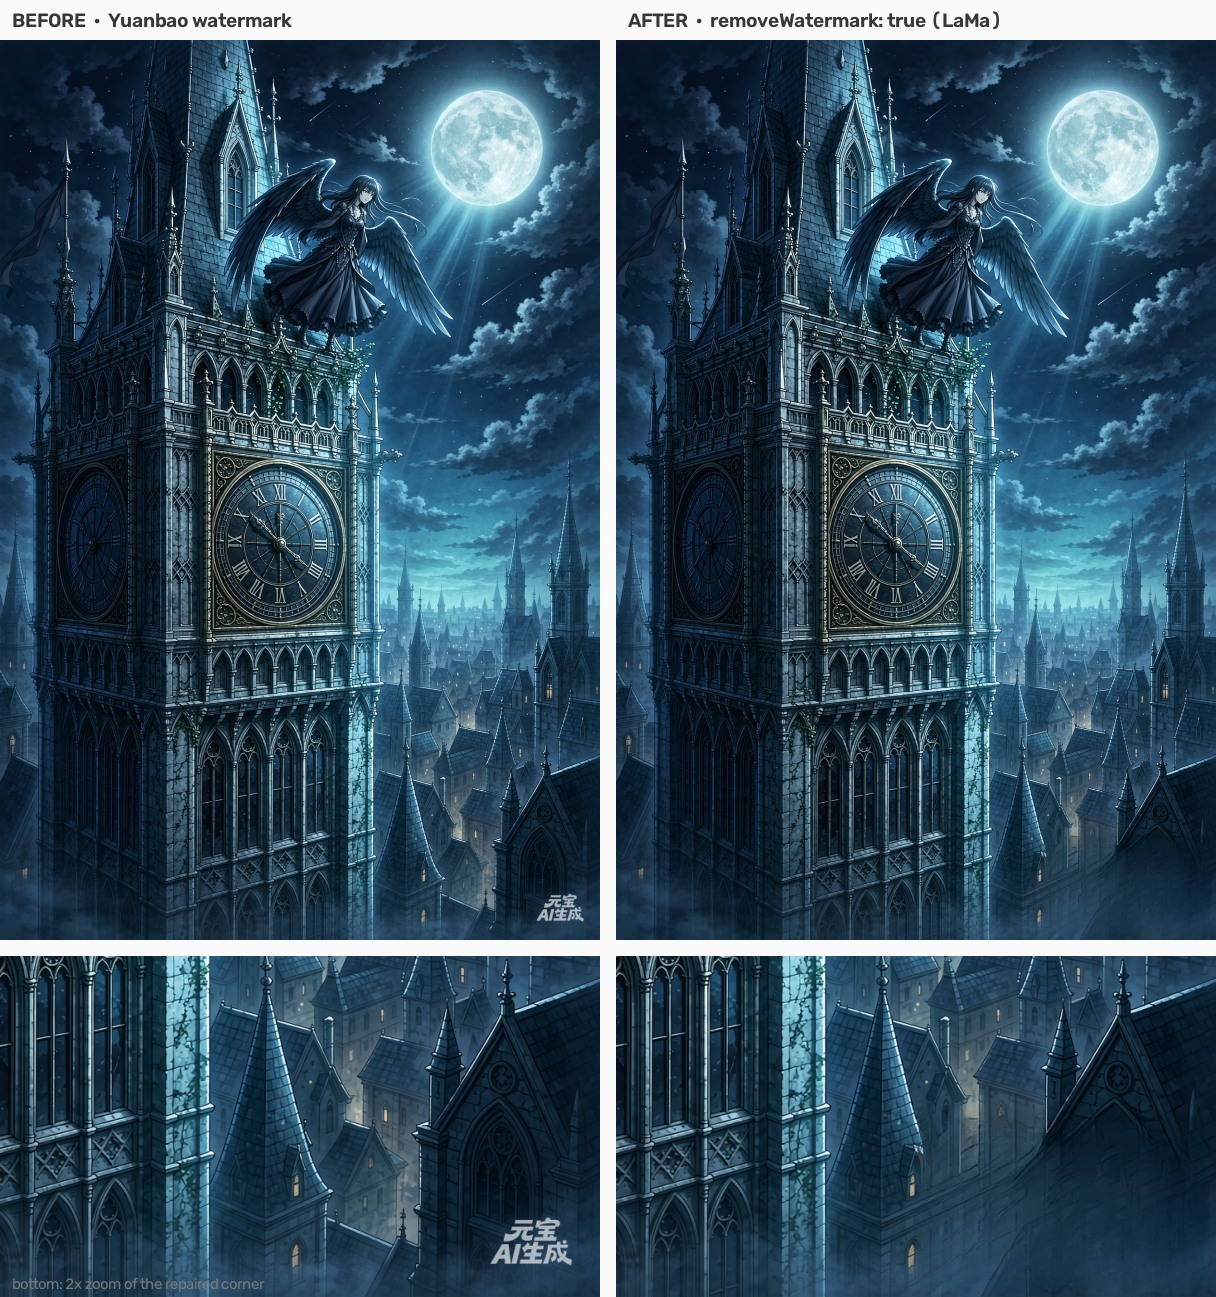
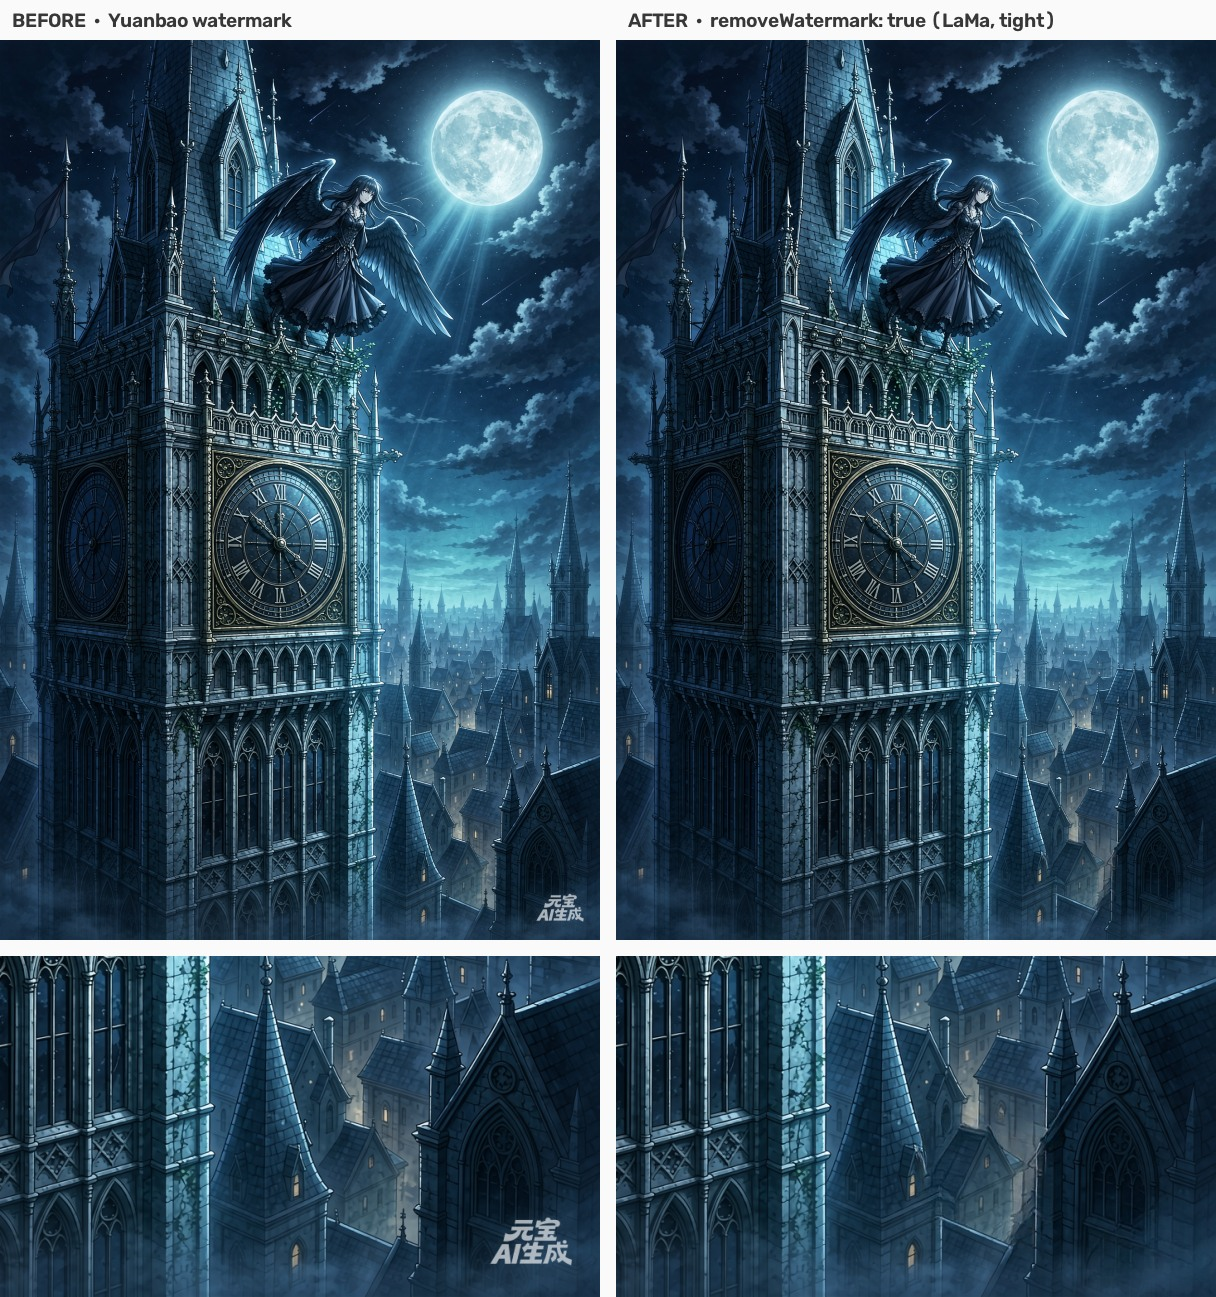
feat(wm): tight 掩膜模式（默认）+ wmMask 参数与设置卡选项
- lib/wm_lama.py: 新增 --mask tight|rect。tight 在 ROI 内按「近白 + 低饱和」
  检出字形，膨胀成紧贴字形的掩膜后只送「掩膜+上下文」进 LaMa，回填时按羽化
  掩膜混合；检出为空自动回退 rect。
- lib/plugin.js / lib/settings.js: 新增 wmMask（tight/rect），走同一套
  「界面设置＝默认值，单次调用可覆盖」链路；新增 DSH_WM_MASK 环境变量。
- client.js: 设置卡新增「修复范围」下拉（仅 lama 引擎可选）。
- docs/watermark-before-after.jpg: 用插件真实代码路径重新生成（tight 模式）。
- docs/wm-mask-tight-vs-rect.jpg + README: tight vs rect 对比。
  实测（哥特城 1872×1248）：tight 改 0.63% 像素、保住窗框砖缝；
  rect 改 1.85%（约 3 倍）、塔身右侧糊成一片。

diff --git a/client.js b/client.js
@@ -24,7 +24,10 @@ window.__ModuleLoader__.load({
         engine: "去水印引擎",
         lama: "Big-LaMa 深度模型（默认，质量好，慢）",
         telea: "OpenCV 修复（快，痕迹明显）",
-        note: "此设置为默认值；单次调用仍可用参数 outDir / removeWatermark / wmEngine 临时覆盖。",
+        mask: "修复范围",
+        maskTight: "只修字形（默认，痕轻）",
+        maskRect: "整块矩形（稳，但会糊一片）",
+        note: "此设置为默认值；单次调用仍可用参数 outDir / removeWatermark / wmEngine / wmMask 临时覆盖。",
         save: "保存",
         saving: "保存中…",
         saved: "已保存",
@@ -45,7 +48,10 @@ window.__ModuleLoader__.load({
         engine: "Watermark engine",
         lama: "Big-LaMa depth model (default, best quality, slower)",
         telea: "OpenCV inpaint (fast, visible traces)",
-        note: "These are defaults; a single call can still override them with outDir / removeWatermark / wmEngine.",
+        mask: "Repair area",
+        maskTight: "Glyph-only (default, lighter traces)",
+        maskRect: "Whole rectangle (safe, but smears)",
+        note: "These are defaults; a single call can still override them with outDir / removeWatermark / wmEngine / wmMask.",
         save: "Save",
         saving: "saving…",
         saved: "saved",
@@ -105,8 +111,8 @@ window.__ModuleLoader__.load({
           return t.summary;
         }
         var loadedState = react.useState(false);
-        var settingsState = react.useState({ removeWatermark: false, wmEngine: "lama", outDir: "" });
-        var draftState = react.useState({ removeWatermark: false, wmEngine: "lama", outDir: "" });
+        var settingsState = react.useState({ removeWatermark: false, wmEngine: "lama", wmMask: "tight", outDir: "" });
+        var draftState = react.useState({ removeWatermark: false, wmEngine: "lama", wmMask: "tight", outDir: "" });
         var noteState = react.useState("");
         var busyState = react.useState(false);
         var loaded = loadedState[0];
@@ -126,6 +132,7 @@ window.__ModuleLoader__.load({
               var next = {
                 removeWatermark: res.body.removeWatermark === true,
                 wmEngine: res.body.wmEngine === "telea" ? "telea" : "lama",
+                wmMask: res.body.wmMask === "rect" ? "rect" : "tight",
                 outDir: typeof res.body.outDir === "string" ? res.body.outDir : "",
               };
               settingsState[1](next);
@@ -145,6 +152,7 @@ window.__ModuleLoader__.load({
           loaded &&
           draft.removeWatermark === settings.removeWatermark &&
           draft.wmEngine === settings.wmEngine &&
+          draft.wmMask === settings.wmMask &&
           draft.outDir === settings.outDir;
 
         function save() {
@@ -161,6 +169,7 @@ window.__ModuleLoader__.load({
               var next = {
                 removeWatermark: res.body.removeWatermark === true,
                 wmEngine: res.body.wmEngine === "telea" ? "telea" : "lama",
+                wmMask: res.body.wmMask === "rect" ? "rect" : "tight",
                 outDir: typeof res.body.outDir === "string" ? res.body.outDir : "",
               };
               settingsState[1](next);
@@ -245,6 +254,34 @@ window.__ModuleLoader__.load({
               },
               h("option", { value: "lama" }, t.lama),
               h("option", { value: "telea" }, t.telea),
+            ),
+          ),
+          h(
+            "label",
+            { style: { display: "flex", flexDirection: "column", gap: 6 } },
+            h("span", { style: { fontSize: 13 } }, t.mask),
+            h(
+              "select",
+              {
+                value: draft.wmMask,
+                disabled: !loaded || busy || !draft.removeWatermark || draft.wmEngine !== "lama",
+                onChange: (e) => {
+                  var wmMask = e.target.value === "rect" ? "rect" : "tight";
+                  draftState[1](Object.assign({}, draft, { wmMask: wmMask }));
+                },
+                style: {
+                  font: "inherit",
+                  fontSize: 13,
+                  padding: "6px 8px",
+                  borderRadius: 8,
+                  border: "1px solid var(--dsw-alias-border-l2, rgba(127,127,127,0.28))",
+                  background: "var(--dsw-alias-bg-l2, rgba(127,127,127,0.08))",
+                  color: "var(--dsw-alias-label-primary, inherit)",
+                  maxWidth: 420,
+                },
+              },
+              h("option", { value: "tight" }, t.maskTight),
+              h("option", { value: "rect" }, t.maskRect),
             ),
           ),
           h("div", { style: theme.hint }, t.note),

diff --git a/lib/plugin.js b/lib/plugin.js
@@ -51,6 +51,8 @@ const WM_SCRIPT_DEFAULT = process.env.DSH_WM_SCRIPT || findSkillScript(HOME);
 // 早期把 ROI 放到 0.68,0.86,1.0,1.0（探针外扩余量），LaMa 要重修 4.5% 面积、smooth 痕明显；
 // 收紧到只包住文字本体后重修面积降到约 2.5%，实测 6 张样本无残留、修痕变轻。可用 wmRoi 参数覆盖。
 const WM_ROI_DEFAULT = process.env.DSH_WM_ROI || "0.71,0.878,0.992,0.996";
+// 掩膜模式：tight=ROI 内检出字形后只修字形（实测痕轻很多）；rect=整块矩形重绘（稳但糊）
+const WM_MASK_DEFAULT = process.env.DSH_WM_MASK || "tight";
 // 引擎注册表：telea=OpenCV TELEA（快、痕明显）；lama=Big-LaMa 深度模型（慢、质量好，GPU 优先）
 const LAMA_PY_DEFAULT = firstExisting(
   pythonCandidates("DSH_LAMA_PYTHON", "default"),
@@ -72,7 +74,7 @@ async function runPython(exe, args, timeoutMs = 180000) {
 
 // 对本次生成的文件做去水印：拷进独立临时目录 → clean_watermark.py 处理 → 返回清理后文件列表
 // 输出持久落在 <outDir>/clean/（stem 含时间戳，跨次不冲突）
-async function cleanWatermark(files, { outDir, wmPython, wmScript, wmRoi, wmMode, quality, maxedge, wmEngine, lamaPython, lamaDevice, log }) {
+async function cleanWatermark(files, { outDir, wmPython, wmScript, wmRoi, wmMask, wmMode, quality, maxedge, wmEngine, lamaPython, lamaDevice, log }) {
   const runDir = await mkdtemp(join(tmpdir(), "yuanbao-wm-"));
   const dst = join(outDir, "clean");
   try {
@@ -80,7 +82,7 @@ async function cleanWatermark(files, { outDir, wmPython, wmScript, wmRoi, wmMode
     let cmd, args;
     if (wmEngine === "lama") {
       cmd = lamaPython;
-      args = [WM_LAMA_SCRIPT, "--src", runDir, "--dst", dst, "--roi", wmRoi];
+      args = [WM_LAMA_SCRIPT, "--src", runDir, "--dst", dst, "--roi", wmRoi, "--mask", wmMask || WM_MASK_DEFAULT];
       if (lamaDevice) args.push("--device", lamaDevice);
       log(`去水印引擎：lama（Big-LaMa）`);
     } else {
@@ -138,6 +140,7 @@ export function apply(ctx, config = {}) {
     wmPython: config.wmPython || process.env.DSH_WM_PYTHON || WM_PYTHON_DEFAULT,
     wmScript: config.wmScript || process.env.DSH_WM_SCRIPT || WM_SCRIPT_DEFAULT,
     wmRoi: config.wmRoi || WM_ROI_DEFAULT,
+    wmMask: config.wmMask || WM_MASK_DEFAULT,
     wmMode: config.wmMode || "auto",
     wmEngine: config.wmEngine || "lama",
     lamaPython: config.lamaPython || process.env.DSH_LAMA_PYTHON || LAMA_PY_DEFAULT,
@@ -172,6 +175,7 @@ export function apply(ctx, config = {}) {
         outDir: { type: "string", description: `保存目录（绝对路径，可选；不传＝用插件界面设置，界面留空则用默认 ${defaultOutDir}）` },
         removeWatermark: { type: "boolean", description: "是否去除右下角水印。⛔ 不传＝用插件界面（设置 → 插件 → dsh-yuanbao-t2i）里的开关；传 true/false 可临时覆盖。开启时产物写 outDir/clean/，原图保留" },
         wmEngine: { type: "string", enum: ["lama", "telea"], description: "去水印引擎（仅开启去水印时生效）。不传＝用插件界面设置（默认 lama）。lama=Big-LaMa 深度模型（GPU 约 3–8 秒/张，质量好）；telea=OpenCV 修复（快，痕迹明显）" },
+        wmMask: { type: "string", enum: ["tight", "rect"], description: "修复范围（仅 lama 引擎）。不传＝用插件界面设置（默认 tight）。tight=只修字形（痕轻、保结构）；rect=整块矩形重绘（稳，但插画类会糊一片）" },
       },
       required: ["prompt"],
     },
@@ -200,13 +204,14 @@ export function apply(ctx, config = {}) {
       const removeWatermark =
         args.removeWatermark === undefined ? stored.removeWatermark === true : args.removeWatermark === true;
       const wmEngine = args.wmEngine || stored.wmEngine;
+      const wmMask = args.wmMask || stored.wmMask;
       return serialize(async () => {
         try {
           const r = await generate({ prompt, profileDir, outDir, headless: false, timeoutMs: 240000, log });
           let cleaned = null;
           if (removeWatermark) {
             try {
-              cleaned = await cleanWatermark(r.files, { outDir, ...wmCfg, wmEngine });
+              cleaned = await cleanWatermark(r.files, { outDir, ...wmCfg, wmEngine, wmMask });
             } catch (e) {
               log(`去水印失败（保留原图继续）：${e.message}`);
             }

diff --git a/lib/settings.js b/lib/settings.js
@@ -13,11 +13,14 @@ export const DEFAULTS = {
   removeWatermark: false,
   // 去水印引擎：lama=Big-LaMa（默认，质量好）；telea=OpenCV（快）
   wmEngine: "lama",
+  // 掩膜：tight=只修字形（默认，痕轻）；rect=整块矩形（稳，但糊一片）
+  wmMask: "tight",
   // 输出目录：空字符串＝用插件默认（~/.dsh/yuanbao-t2i-out）
   outDir: "",
 };
 
 const ENGINES = new Set(["lama", "telea"]);
+const MASKS = new Set(["tight", "rect"]);
 const MAX_OUTDIR = 240;
 
 function cleanDir(value) {
@@ -34,6 +37,7 @@ function sanitize(raw) {
   if (!raw || typeof raw !== "object") return out;
   if (typeof raw.removeWatermark === "boolean") out.removeWatermark = raw.removeWatermark;
   if (typeof raw.wmEngine === "string" && ENGINES.has(raw.wmEngine)) out.wmEngine = raw.wmEngine;
+  if (typeof raw.wmMask === "string" && MASKS.has(raw.wmMask)) out.wmMask = raw.wmMask;
   out.outDir = cleanDir(raw.outDir);
   return out;
 }

diff --git a/lib/wm_lama.py b/lib/wm_lama.py
@@ -1,27 +1,87 @@
 # -*- coding: utf-8 -*-
 """wm_lama.py — LaMa 引擎去水印（simple-lama-inpainting，GPU/CPU 自适应）。
-用法：python wm_lama.py --src <目录> --dst <目录> --roi x0,y0,x1,y1 [--device cuda]
-掩膜 = ROI 白色矩形（整块区域交给 LaMa 重建，质量优于 TELEA 但更慢）。
+
+用法：
+  python wm_lama.py --src <目录> --dst <目录> --roi x0,y0,x1,y1 [--mask rect|tight] [--device cuda]
+
+掩膜模式：
+  rect  （默认）ROI 整块白矩形交给 LaMa 重建 —— 最稳、但重修面积大，插画类会「糊一片」。
+  tight 在 ROI 内按「近白 + 低饱和」阈值检出字形，膨胀成紧贴字形的掩膜后再修 ——
+        重修面积小得多、痕更轻；白底/亮背景可能误遮，检出为空时自动回退 rect。
+
+tight 的上下文：以掩膜外接框外扩 --ctx 像素裁切，只把这块送进模型，回填时按羽化掩膜混合，
+避免接缝。
 """
-import argparse, os, sys
+import argparse
+import os
+
+
+def build_rect_mask(w, h, roi):
+    from PIL import Image
+
+    x0, y0, x1, y1 = roi
+    px = Image.new("L", (w, h), 0)
+    from PIL import ImageDraw
+
+    ImageDraw.Draw(px).rectangle(
+        [int(x0 * w), int(y0 * h), int(x1 * w) - 1, int(y1 * h) - 1], fill=255
+    )
+    return px
+
+
+def build_tight_mask(img, roi, thr, sat, dilate):
+    """在 ROI 内检出近白低饱和的字形像素，膨胀成掩膜。返回 (mask, 说明)。"""
+    import numpy as np
+    from PIL import Image, ImageFilter
+
+    w, h = img.size
+    x0, y0, x1, y1 = int(roi[0] * w), int(roi[1] * h), int(roi[2] * w), int(roi[3] * h)
+    if x1 <= x0 or y1 <= y0:
+        return build_rect_mask(w, h, roi), "ROI 非法，回退 rect"
+
+    sub = np.asarray(img.crop((x0, y0, x1, y1))).astype(np.int16)
+    mx = sub.max(axis=2)
+    mn = sub.min(axis=2)
+    glyph = ((mx > thr) & ((mx - mn) < sat)).astype(np.uint8) * 255
+    if glyph.sum() == 0:
+        return build_rect_mask(w, h, roi), f"ROI 内未检出字形（thr={thr} sat={sat}），回退 rect"
+
+    mask = Image.fromarray(glyph)
+    # PIL 的 MaxFilter 只吃小核，重复几次累计膨胀（9 核≈每边 +4px，7 次≈28px，够包住字边）
+    if dilate > 0:
+        steps = max(1, round(dilate / 4))
+        for _ in range(steps):
+            mask = mask.filter(ImageFilter.MaxFilter(9))
+    full = Image.new("L", (w, h), 0)
+    full.paste(mask, (x0, y0))
+    return full, f"字形掩膜 thr={thr} sat={sat} dilate≈{dilate}px"
+
 
 def main():
     ap = argparse.ArgumentParser()
     ap.add_argument("--src", required=True)
     ap.add_argument("--dst", required=True)
     ap.add_argument("--roi", required=True, help="x0,y0,x1,y1 相对比例")
+    ap.add_argument("--mask", default="rect", choices=["rect", "tight"], help="掩膜模式")
+    ap.add_argument("--thr", type=int, default=185, help="tight：近白阈值（0-255）")
+    ap.add_argument("--sat", type=int, default=45, help="tight：最大通道差上限（越低越只认灰白）")
+    ap.add_argument("--dilate", type=int, default=25, help="tight：掩膜膨胀半径（像素）")
+    ap.add_argument("--ctx", type=int, default=160, help="tight：送模型的上下文外扩（像素）")
     ap.add_argument("--device", default=None, help="cuda / cpu（默认自动）")
     a = ap.parse_args()
 
-    x0, y0, x1, y1 = (float(v) for v in a.roi.split(","))
+    roi = tuple(float(v) for v in a.roi.split(","))
+    if len(roi) != 4:
+        print("[wm_lama] --roi 需要 4 个数", flush=True)
+        return 2
     os.makedirs(a.dst, exist_ok=True)
 
+    from PIL import Image, ImageFilter
     from simple_lama_inpainting import SimpleLama
-    from PIL import Image
-    import numpy as np
+    import torch
 
-    device = a.device or ("cuda" if __import__("torch").cuda.is_available() else "cpu")
-    print(f"[wm_lama] device={device}", flush=True)
+    device = a.device or ("cuda" if torch.cuda.is_available() else "cpu")
+    print(f"[wm_lama] device={device} mask={a.mask}", flush=True)
     lama = SimpleLama(device=device)
 
     exts = (".png", ".jpg", ".jpeg", ".webp")
@@ -31,16 +91,38 @@ def main():
             continue
         img = Image.open(os.path.join(a.src, name)).convert("RGB")
         w, h = img.size
-        mask = Image.new("L", (w, h), 0)
-        px = np.zeros((h, w), dtype=np.uint8)
-        px[int(y0 * h):int(y1 * h), int(x0 * w):int(x1 * w)] = 255
-        mask = Image.fromarray(px)
-        out = lama(img, mask)
+        if a.mask == "tight":
+            mask, note = build_tight_mask(img, roi, a.thr, a.sat, a.dilate)
+            print(f"[wm_lama] {name}: {note}", flush=True)
+        else:
+            mask = build_rect_mask(w, h, roi)
+
+        bbox = mask.getbbox()
+        if a.mask == "tight" and bbox:
+            # tight：只把「掩膜 + 上下文」这一块送模型，回填时按羽化掩膜混合，避免整图重建
+            x0 = max(0, bbox[0] - a.ctx)
+            y0 = max(0, bbox[1] - a.ctx)
+            x1 = min(w, bbox[2] + a.ctx)
+            y1 = min(h, bbox[3] + a.ctx)
+            crop = img.crop((x0, y0, x1, y1))
+            crop_mask = mask.crop((x0, y0, x1, y1))
+            filled = lama(crop, crop_mask).convert("RGB")
+            # SimpleLama 只往右/下 pad 到 8 的倍数，输出会比输入大几像素，裁回原尺寸
+            filled = filled.crop((0, 0, crop.width, crop.height))
+            soft = crop_mask.filter(ImageFilter.GaussianBlur(2.0))
+            out = img.copy()
+            out.paste(Image.composite(filled, crop, soft), (x0, y0))
+        else:
+            out = lama(img, mask)
+            out = out.convert("RGB").crop((0, 0, w, h))
+
         stem = os.path.splitext(name)[0]
         out.save(os.path.join(a.dst, stem + ".png"))
         n += 1
         print(f"[wm_lama] {name} -> {stem}.png", flush=True)
     print(f"[wm_lama] done {n}", flush=True)
+    return 0
+
 
 if __name__ == "__main__":
-    main()
+    raise SystemExit(main())

diff --git a/README.md b/README.md
@@ -1,12 +1,14 @@
 # dsh-yuanbao-t2i
 
+> 当前版本 **v0.3.0**（新增 `wmMask`：`tight` 只修字形 / `rect` 整块矩形；`tight` 为默认）
+
 [DSH](https://github.com/deepseek-ai)（DeepSeek Harness）本地插件：用**腾讯元宝网页版**（混元 Hy Image）文生图，一次 4 张 PNG 直接落盘，并可在插件设置卡里选择是否去水印、用哪个去水印引擎、图片存到哪个目录。
 
 > ⚠ **性质说明**：本插件通过 [patchright](https://github.com/Kaliiiiiiiiii-Vinyzu/patchright) 驱动真实浏览器登录元宝网页版，复用**你自己账号**的会话。请自行评估账号风险（频繁调用、自动化行为可能触发平台风控），并遵守腾讯元宝的服务条款。作者不对账号受限、图片内容或版权负责。
 
 ![去水印效果：左＝元宝原图（右下角水印），右＝开启 removeWatermark 且引擎为 LaMa](docs/watermark-before-after.jpg)
 
-<sub>上半＝整图对比，下半＝右下角 2× 放大。默认**不去水印**；开启后可去掉右下角「元宝 AI生成」，但放大仍能看到轻微平滑／修补痕（纸纹、白底类画面更明显）——所以默认关。</sub>
+<sub>上半＝整图对比，下半＝右下角 2× 放大（默认 `tight` 掩膜）。默认**不去水印**；开启后可去掉右下角「元宝 AI生成」，但放大仍能看到轻微平滑／修补痕（纸纹、白底类画面更明显）——所以默认关。同图的 tight vs rect 对比见 <a href="#tight-与-rect-的差别">下节</a>。</sub>
 
 ## 它做什么
 
@@ -14,6 +16,20 @@
 - 首次使用需**微信扫码登录**一次，登录态存在本地 profile 目录，之后复用。
 - 同一个 profile 不能被两个浏览器同时打开，所以插件内部把所有调用**串行化**。
 - 右下角「元宝 AI生成」水印可选去除：`lama`（Big-LaMa 深度模型，默认，质量好、慢）或 `telea`（OpenCV，快、痕迹明显）。**默认不去水印**——实测 LaMa 在纸纹/白底图上仍有轻微平滑痕，看用途决定。
+- `lama` 的**修复范围**可选：`tight`（默认，先在 ROI 里检出「近白 + 低饱和」的字形，膨胀后只修字形）或 `rect`（整块矩形重绘）。实测二者差别很大——`rect` 在插画上会把窗口/砖石/水彩洗边整块糊掉，`tight` 只留一道淡淡的修补痕。
+
+## tight 与 rect 的差别
+
+`wmMask` 只影响 `lama` 引擎重修多大一块：
+
+| 模式 | 行为 | 实测（右图哥特城，1872×1248） |
+| --- | --- | --- |
+| `tight`（默认） | 在 ROI 内检出「近白 + 低饱和」的字形，膨胀 ~25px 后**只修字形**，再按羽化掩膜回填 | 改动 **0.63%** 像素（14,644 px）；砖缝／窗框／屋顶轮廓全部保留，只在水印原处留一道很淡的修补痕 |
+| `rect` | 把 ROI 整块矩形交给 LaMa 重建 | 改动 **1.85%** 像素（43,321 px，约 3 倍）；塔身右侧一大片被抹平成雾状，窗户与尖顶细节丢失 |
+
+![tight vs rect 对比：上排整图，下排水印区放大。tight 保住窗框与砖缝，rect 把塔身右侧糊成一片](docs/wm-mask-tight-vs-rect.jpg)
+
+**结论**：`tight` 是默认值，绝大多数图用它。只有在水印压在**高亮／近白背景**上（tight 的字形检出会把背景亮部一起遮掉）时才换 `rect`。
 
 ## 示例
 
@@ -57,6 +73,7 @@
 | `outDir` | string | 保存目录；不传＝用插件界面的「输出目录」，界面留空则用默认 `~/.dsh/yuanbao-t2i-out` |
 | `removeWatermark` | boolean | 是否去水印；不传＝用插件界面开关。开启后产物写 `<outDir>/clean/`，原图保留 |
 | `wmEngine` | `lama` \| `telea` | 去水印引擎（仅去水印时生效）；不传＝用插件界面设置 |
+| `wmMask` | `tight` \| `rect` | 修复范围（仅 `lama` 引擎）；不传＝用插件界面设置（默认 `tight`） |
 
 返回：图片绝对路径列表 + 原始（未去水印）路径。
 
@@ -67,6 +84,7 @@ DSH **设置 → 插件 → dsh-yuanbao-t2i → 生成设置**：
 - 输出目录（留空＝默认）
 - 生成后自动去水印（开/关）
 - 去水印引擎（Big-LaMa / OpenCV）
+- 修复范围（只修字形 / 整块矩形；仅 Big-LaMa 引擎可选）
 - 保存
 
 设置存在 `~/.dsh/yuanbao-t2i-config.json`，由宿主的 `GET|POST /yuanbao-t2i/config` 路由读写（loopback only）。
@@ -83,6 +101,7 @@ DSH **设置 → 插件 → dsh-yuanbao-t2i → 生成设置**：
 | `DSH_WM_SCRIPT` | `clean_watermark.py` 路径（telea 引擎） |
 | `DSH_LAMA_PYTHON` | `lama` 引擎用的、装了 `torch` + `simple-lama-inpainting` 的 Python |
 | `DSH_WM_ROI` | 水印区域 `x0,y0,x1,y1`（比例，默认 `0.71,0.878,0.992,0.996`；元宝改版面时改这个） |
+| `DSH_WM_MASK` | `lama` 的修复范围（`tight` 字形 / `rect` 矩形，默认 `tight`） |
 
 ### 去水印引擎的额外依赖（可选，只在开启去水印时需要）
 
@@ -95,6 +114,7 @@ DSH **设置 → 插件 → dsh-yuanbao-t2i → 生成设置**：
 
 - 一次固定 4 张图，尺寸随元宝返回（实测 1248×1872 / 1344×1792），单张 3MB 左右。
 - 水印 ROI 按 2026-10 的版面量得（默认 `x 0.710–0.992, y 0.878–0.996`，只包住文字本体）；元宝改版面后需重新量，或用环境变量 `DSH_WM_ROI` 覆盖。
+- `tight` 掩膜的阈值（近白 >185、通道差 <45、膨胀 ~25px）是按元宝当前水印调的：**白底/高亮背景**可能把别的亮部一起当字形遮掉（表现为该处被抹平）；遇到这种图改用 `wmMask: "rect"` 或调 `DSH_WM_ROI`。
 - 只做文生图；图生图/编辑类接口未实现。
 - LaMa 修复在白色背景 + 细纸纹图上仍可能留下轻微平滑痕——这也是「默认不去水印」的原因。
 
